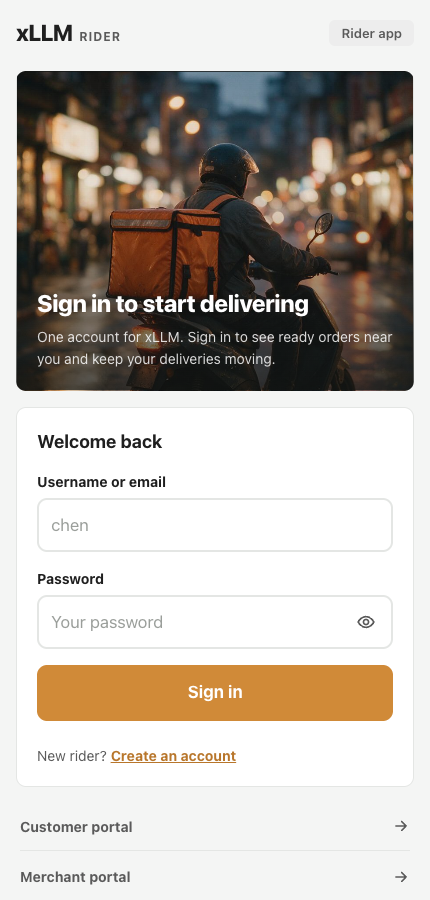
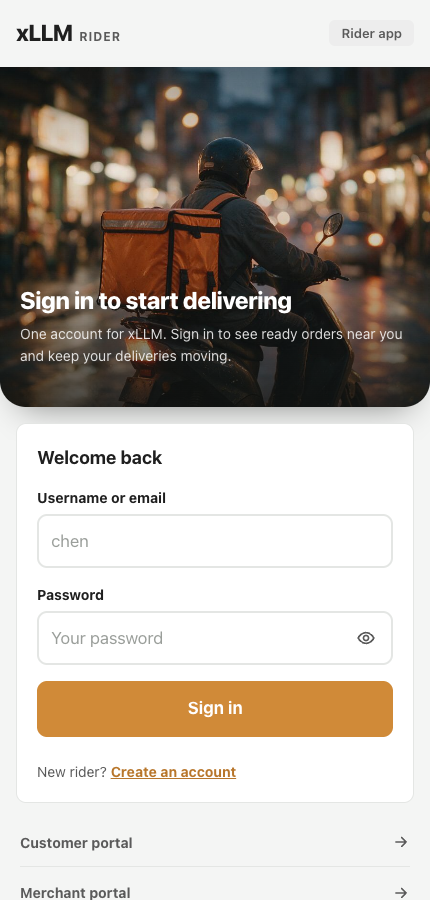
screenshots + docs: the new photo treatment

Changed region(s): [[0.0, 0.0622, 1.0, 0.8711], [0.0302, 0.9022, 0.3023, 1.0], [0.907, 0.9644, 0.9674, 0.9956]]

diff --git a/docs/插图与配图.md b/docs/插图与配图.md
@@ -104,7 +104,24 @@ cd server && set -a && . ../.env && set +a && ../.venv/bin/python ../tools/backf
 
 ---
 
-## 六、踩过的坑（都别再踩）
+## 六、图怎么放才不像"贴上去的一个框"
+
+同一个道理：**让照片成为界面本身的一部分，而不是界面里的一个矩形**。
+
+| 位置 | 做法 |
+|---|---|
+| 首页餐厅卡片 | 整张卡就是那张照片（16:10 满版），底部一层从透明到 `rgba(24,12,8,.82)` 的渐变，店名和评分压在渐变上；菜系、起送价留在下面的白色页脚。照片不再缩在左边当一个 92px 小方块。 |
+| 餐厅详情头图 | 264px 高，**用 `mask-image` 让底部化进页面白底**（不要盖白色渐变——暖色照片上会留一道灰边），信息卡再压上来 64px 浮在渐隐区上。 |
+| 返回按钮 | 半透明白 + `backdrop-filter: blur(12px)`，像贴在照片上的磨砂玻璃，而不是一块实心圆。 |
+| 骑手登录 | 照片横向铺满屏幕、只在底部收圆角，标题落在照片下缘的渐变压层里。 |
+| 菜品缩略图 | 圆角 14px + 一层很浅的投影 + hover 时轻微放大（`.45s` 缓动）。 |
+
+两条通用约束：
+
+- **渐变要够长**（20%~40% 的画面高度），短了就等于一条黑边。
+- **压在图上的字必须有渐变压着**，不要靠 `text-shadow` 硬撑。
+
+## 七、踩过的坑（都别再踩）
 
 | 现象 | 原因 | 解法 |
 |---|---|---|
@@ -113,3 +130,4 @@ cd server && set -a && . ../.env && set +a && ../.venv/bin/python ../tools/backf
 | 封面图永远显示**左上角** | `.c-hero { background: … }` 简写把 `background-size/position` 重置了 | 基础规则写 `background-image`，JS 里连 size/position 一起写行内 |
 | 三个封面被重复覆盖 | `--ref cover-goldenwok` 同时匹配了**引用它的三张封面** | 加 `--prefix dish-` 限定 |
 | 并行跑两批，两边都慢 | 同一账号的请求会排队 | **一次只跑一个出图进程** |
+| 有图的菜点不了 "+" | 图片的 `z-index` 盖住了绝对定位的加购按钮 | 图片不要给 `z-index`；按钮提到 `z-index: 2` |
